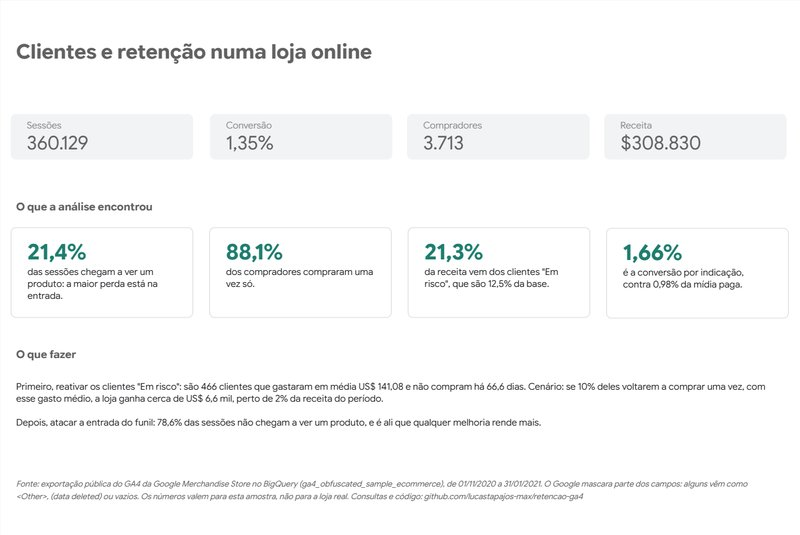
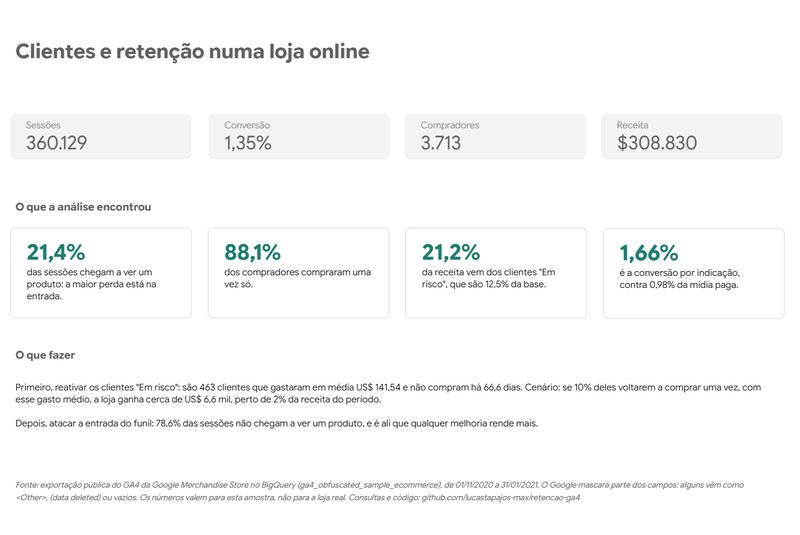
Projeto de retenção com os números novos do RFM (empates com a mesma nota)

diff --git a/index.html b/index.html
@@ -538,7 +538,7 @@ section[id] { scroll-margin-top: 72px; }
           <h3>Clientes e retenção numa loja online</h3>
           <p class="comprova">A pergunta: quais clientes valem a pena reter, e onde a loja perde os outros?</p>
           <p>Com os eventos públicos do GA4 da loja do Google no BigQuery, o projeto mede o funil até a compra, a recompra por coorte semanal e os segmentos de clientes por recência, frequência e valor.</p>
-          <p>Os clientes que gastaram muito e sumiram são 12,55% dos compradores e 21,29% da receita. Um teste de proporções mostra que o canal muda a conversão (indicação 1,66%, mídia paga 0,98%) e que o dispositivo não muda na prática. A recomendação: reativar primeiro esse grupo.</p>
+          <p>Os clientes que gastaram muito e sumiram são 12,47% dos compradores e 21,22% da receita. Um teste de proporções mostra que o canal muda a conversão (indicação 1,66%, mídia paga 0,98%) e que o dispositivo não muda na prática. A recomendação: reativar primeiro esse grupo.</p>
           <ul class="ferramentas" aria-label="Ferramentas do projeto"><li>SQL</li><li>BigQuery</li><li>GA4</li><li>Python e SciPy</li><li>Data Studio</li><li>pytest</li></ul>
           <div class="acoes">
             <a class="botao cheio" href="https://datastudio.google.com/reporting/c90a7ec2-8e4d-4aaf-8732-3090e4bda3d7">Ver o painel</a>
